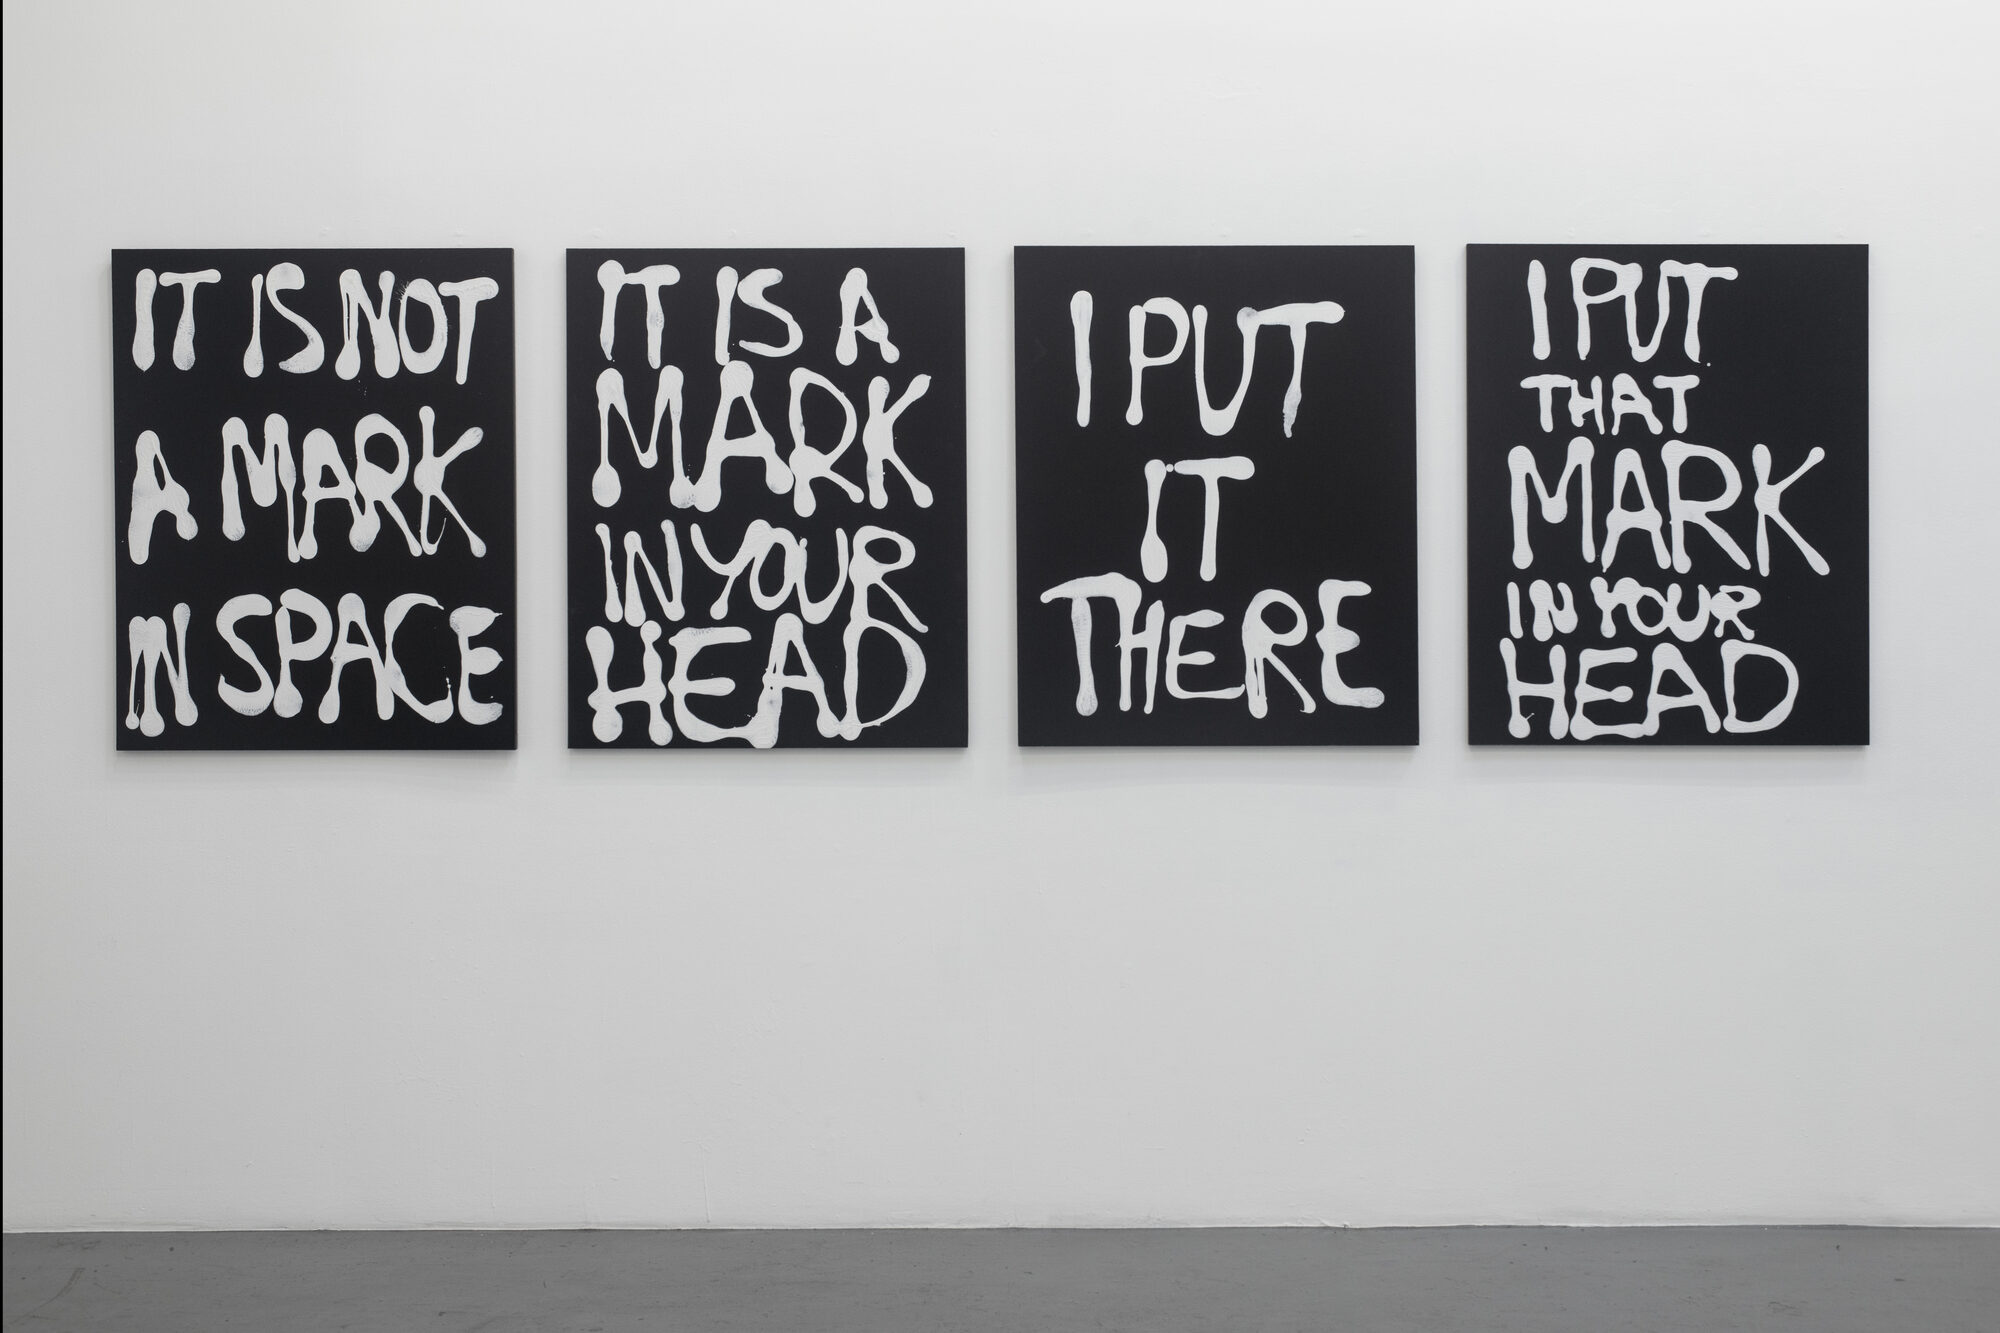
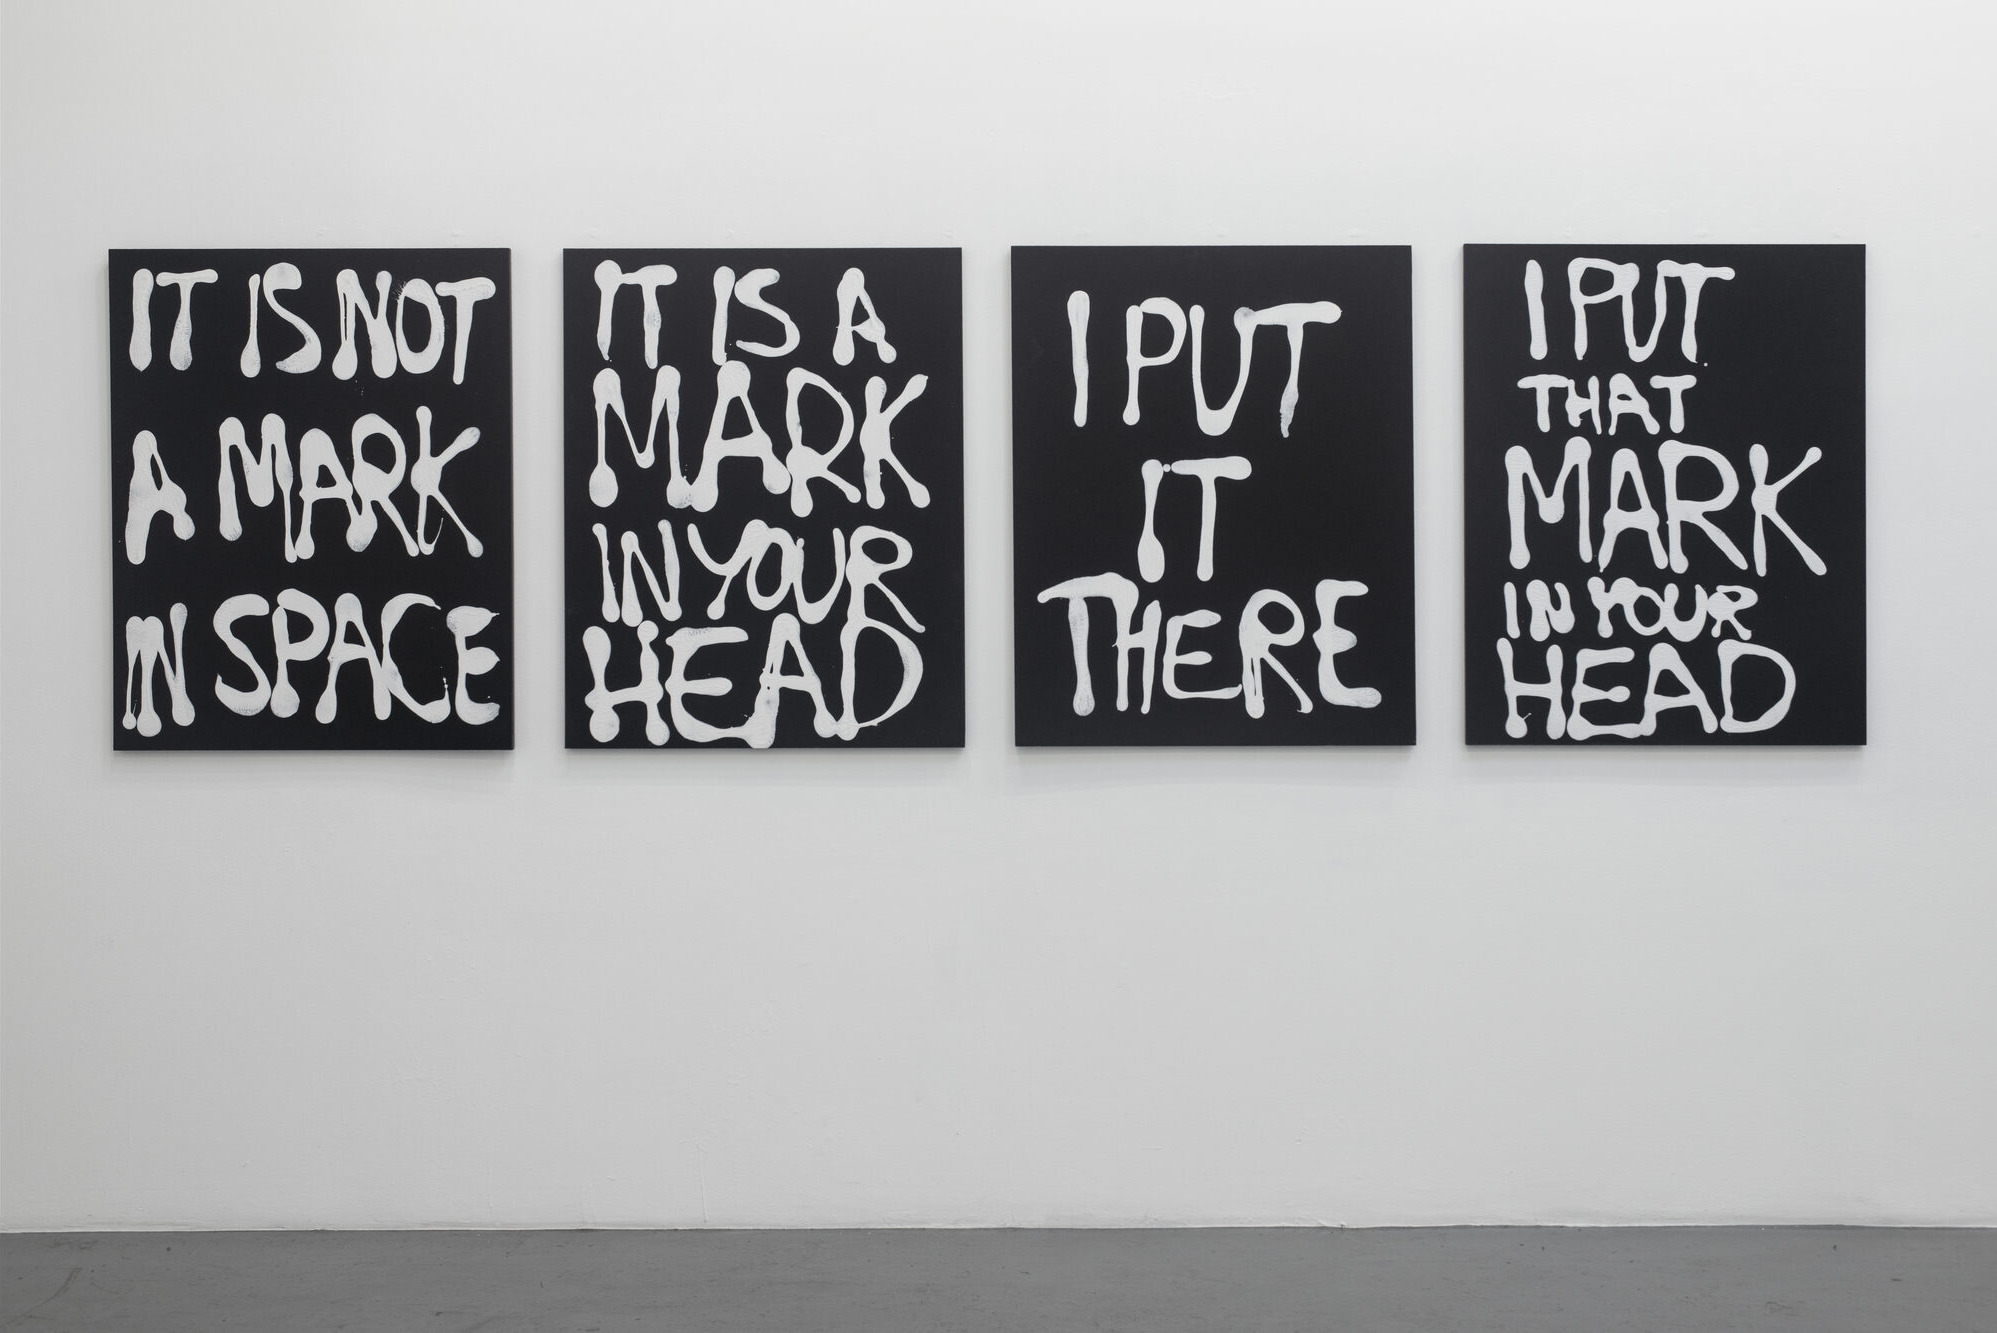
Add files via upload

diff --git a/hurdy-gurdy-man.html b/hurdy-gurdy-man.html
@@ -10,6 +10,9 @@
   <link rel="stylesheet" href="style.css">
   <style>
 
+    /* ── Override title size for this page ── */
+    .exh-title { font-size: clamp(1.4rem, 2.5vw, 2.2rem); }
+
     /* ── Exhibition intro ── */
     .exh-intro {
       padding: 3.5rem 2.5rem 2.5rem;
@@ -24,12 +27,10 @@
     .artist-link {
       color: inherit;
       text-decoration: none;
-      border-bottom: 0.5px solid #1A1A18;
-      transition: color 0.15s, border-color 0.15s;
+      transition: color 0.15s;
     }
     .artist-link:hover {
       color: #6A6660;
-      border-color: #6A6660;
     }
 
     /* ── Gallery sections ── */
@@ -150,7 +151,7 @@
       line-height: 1.6;
     }
 
-    .grid-item:hover img { opacity: 0.82; }
+    .grid-item:hover img { opacity: 1; }
 
     /* ── Lightbox ── */
     .lightbox {
@@ -409,7 +410,8 @@
         <div class="grid-item featured" data-index="2" data-artist="Mitchell Syrop" data-title="I Put That Mark in Your Head" data-year="2004">
           <img src="mitchell-1.jpg" alt="Mitchell Syrop">
           <div class="thumb-caption">
-            <span class="thumb-caption-title">Mitchell Syrop</span>
+            <span class="thumb-caption-title">I Put That Mark in Your Head, 2004</span>
+            <span class="thumb-caption-meta">Acrylic on museum board on Sintra, 40 × 140 inches</span>
           </div>
         </div>
         <div class="diptych">
@@ -417,14 +419,14 @@
             <img src="mitchell-2.jpg" alt="Mitchell Syrop">
             <div class="thumb-caption">
               <span class="thumb-caption-title">Character, 2026</span>
-              <span class="thumb-caption-meta">Acrylic on museum board</span>
+              <span class="thumb-caption-meta">Acrylic on museum board, 60 × 32 inches</span>
             </div>
           </div>
           <div class="grid-item" data-index="4" data-artist="Mitchell Syrop" data-title="Mechanism" data-year="2026">
             <img src="mitchell-3.jpg" alt="Mitchell Syrop">
             <div class="thumb-caption">
               <span class="thumb-caption-title">Mechanism, 2026</span>
-              <span class="thumb-caption-meta">Acrylic on museum board</span>
+              <span class="thumb-caption-meta">Acrylic on museum board, 60 × 32 inches</span>
             </div>
           </div>
         </div>
@@ -433,14 +435,14 @@
             <img src="mitchell-4.jpg" alt="Mitchell Syrop">
             <div class="thumb-caption">
               <span class="thumb-caption-title">Semi Demi, 2026</span>
-              <span class="thumb-caption-meta">Ink and acrylic on paper</span>
+              <span class="thumb-caption-meta">Ink and acrylic on paper, 30 × 22 inches</span>
             </div>
           </div>
           <div class="grid-item" data-index="6" data-artist="Mitchell Syrop" data-title="Spread Bleed" data-year="2026">
             <img src="mitchell-5.jpg" alt="Mitchell Syrop">
             <div class="thumb-caption">
               <span class="thumb-caption-title">Spread Bleed, 2026</span>
-              <span class="thumb-caption-meta">Ink and acrylic on paper</span>
+              <span class="thumb-caption-meta">Ink and acrylic on paper, 30 × 22 inches</span>
             </div>
           </div>
         </div>
@@ -461,35 +463,35 @@
           <img src="dave-2.jpg" alt="Dave Hughes">
           <div class="thumb-caption">
             <span class="thumb-caption-title">Untitled, 2025–26</span>
-            <span class="thumb-caption-meta">Pencil and ink on paper mylar</span>
+            <span class="thumb-caption-meta">Pencil and ink on paper mylar, 24 × 12 × 2 inches</span>
           </div>
         </div>
         <div class="grid-item" data-index="9" data-artist="Dave Hughes" data-title="Untitled" data-year="2025–26">
           <img src="dave-3.jpg" alt="Dave Hughes">
           <div class="thumb-caption">
             <span class="thumb-caption-title">Untitled, 2025–26</span>
-            <span class="thumb-caption-meta">Pencil and ink on paper mylar</span>
+            <span class="thumb-caption-meta">Pencil and ink on paper mylar, 24 × 12 × 2 inches</span>
           </div>
         </div>
         <div class="grid-item" data-index="10" data-artist="Dave Hughes" data-title="Untitled" data-year="2025–26">
           <img src="dave-4.jpg" alt="Dave Hughes">
           <div class="thumb-caption">
             <span class="thumb-caption-title">Untitled, 2025–26</span>
-            <span class="thumb-caption-meta">Pencil and ink on paper mylar</span>
+            <span class="thumb-caption-meta">Pencil and ink on paper mylar, 24 × 12 × 2 inches</span>
           </div>
         </div>
         <div class="grid-item" data-index="11" data-artist="Dave Hughes" data-title="Untitled" data-year="2025–26">
           <img src="dave-5.jpg" alt="Dave Hughes">
           <div class="thumb-caption">
             <span class="thumb-caption-title">Untitled, 2025–26</span>
-            <span class="thumb-caption-meta">Pencil and ink on paper mylar</span>
+            <span class="thumb-caption-meta">Pencil and ink on paper mylar, 24 × 12 × 2 inches</span>
           </div>
         </div>
         <div class="grid-item" data-index="12" data-artist="Dave Hughes" data-title="Untitled" data-year="2025–26">
           <img src="dave-6.jpg" alt="Dave Hughes">
           <div class="thumb-caption">
             <span class="thumb-caption-title">Untitled, 2025–26</span>
-            <span class="thumb-caption-meta">Pencil and ink on paper mylar</span>
+            <span class="thumb-caption-meta">Pencil and ink on paper mylar, 24 × 12 × 2 inches</span>
           </div>
         </div>
         <div class="diptych-uniform">
@@ -499,7 +501,7 @@
             </div>
             <div class="thumb-caption">
               <span class="thumb-caption-title">Untitled, 2026</span>
-              <span class="thumb-caption-meta">Steel, ink, paper</span>
+              <span class="thumb-caption-meta">Steel, ink, paper, 7.5 × 4 × 4 inches</span>
             </div>
           </div>
           <div class="diptych-cell">
@@ -508,7 +510,7 @@
             </div>
             <div class="thumb-caption">
               <span class="thumb-caption-title">Untitled, 2026</span>
-              <span class="thumb-caption-meta">Steel, ink, paper</span>
+              <span class="thumb-caption-meta">Steel, ink, paper, 7.5 × 4 × 4 inches</span>
             </div>
           </div>
         </div>
@@ -529,63 +531,63 @@
           <img src="andrew-2.jpg" alt="Andrew Hahn">
           <div class="thumb-caption">
             <span class="thumb-caption-title">Spirit Photography Drawing 8, 2018</span>
-            <span class="thumb-caption-meta">Pencil on paper</span>
+            <span class="thumb-caption-meta">Pencil on paper, 21 × 15 inches</span>
           </div>
         </div>
         <div class="grid-item" data-index="17" data-artist="Andrew Hahn" data-title="Spirit Photography Drawing 5" data-year="2018">
           <img src="andrew-3.jpg" alt="Andrew Hahn">
           <div class="thumb-caption">
             <span class="thumb-caption-title">Spirit Photography Drawing 5, 2018</span>
-            <span class="thumb-caption-meta">Pencil on paper</span>
+            <span class="thumb-caption-meta">Pencil on paper, 21 × 15 inches</span>
           </div>
         </div>
         <div class="grid-item" data-index="18" data-artist="Andrew Hahn" data-title="Spirit Photography Drawing 11" data-year="2018">
           <img src="andrew-4.jpg" alt="Andrew Hahn">
           <div class="thumb-caption">
             <span class="thumb-caption-title">Spirit Photography Drawing 11, 2018</span>
-            <span class="thumb-caption-meta">Pencil on paper</span>
+            <span class="thumb-caption-meta">Pencil on paper, 21 × 15 inches</span>
           </div>
         </div>
         <div class="grid-item" data-index="19" data-artist="Andrew Hahn" data-title="Spirit Photography Drawing 2" data-year="2018">
           <img src="andrew-5.jpg" alt="Andrew Hahn">
           <div class="thumb-caption">
             <span class="thumb-caption-title">Spirit Photography Drawing 2, 2018</span>
-            <span class="thumb-caption-meta">Pencil on paper</span>
+            <span class="thumb-caption-meta">Pencil on paper, 21 × 15 inches</span>
           </div>
         </div>
         <div class="grid-item" data-index="20" data-artist="Andrew Hahn" data-title="Spirit Photography Drawing 1" data-year="2018">
           <img src="andrew-6.jpg" alt="Andrew Hahn">
           <div class="thumb-caption">
             <span class="thumb-caption-title">Spirit Photography Drawing 1, 2018</span>
-            <span class="thumb-caption-meta">Pencil on paper</span>
+            <span class="thumb-caption-meta">Pencil on paper, 21 × 15 inches</span>
           </div>
         </div>
         <div class="grid-item" data-index="21" data-artist="Andrew Hahn" data-title="Spirit Photography Drawing 4" data-year="2018">
           <img src="andrew-7.jpg" alt="Andrew Hahn">
           <div class="thumb-caption">
             <span class="thumb-caption-title">Spirit Photography Drawing 4, 2018</span>
-            <span class="thumb-caption-meta">Pencil on paper</span>
+            <span class="thumb-caption-meta">Pencil on paper, 21 × 15 inches</span>
           </div>
         </div>
         <div class="grid-item" data-index="22" data-artist="Andrew Hahn" data-title="Spirit Photography Drawing 12" data-year="2018">
           <img src="andrew-8.jpg" alt="Andrew Hahn">
           <div class="thumb-caption">
             <span class="thumb-caption-title">Spirit Photography Drawing 12, 2018</span>
-            <span class="thumb-caption-meta">Pencil on paper</span>
+            <span class="thumb-caption-meta">Pencil on paper, 21 × 15 inches</span>
           </div>
         </div>
         <div class="grid-item" data-index="23" data-artist="Andrew Hahn" data-title="Spirit Photography Drawing 9" data-year="2018">
           <img src="andrew-9.jpg" alt="Andrew Hahn">
           <div class="thumb-caption">
             <span class="thumb-caption-title">Spirit Photography Drawing 9, 2018</span>
-            <span class="thumb-caption-meta">Pencil on paper</span>
+            <span class="thumb-caption-meta">Pencil on paper, 21 × 15 inches</span>
           </div>
         </div>
         <div class="grid-item" data-index="24" data-artist="Andrew Hahn" data-title="Spirit Photography Drawing 3" data-year="2018">
           <img src="andrew-10.jpg" alt="Andrew Hahn">
           <div class="thumb-caption">
             <span class="thumb-caption-title">Spirit Photography Drawing 3, 2018</span>
-            <span class="thumb-caption-meta">Pencil on paper</span>
+            <span class="thumb-caption-meta">Pencil on paper, 21 × 15 inches</span>
           </div>
         </div>
       </div>

diff --git a/style.css b/style.css
@@ -76,9 +76,16 @@ nav a.active { color: #1A1A18; }
 .hero-name {
   font-size: clamp(1.8rem, 4.5vw, 3.5rem);
   font-weight: 300;
-  letter-spacing: -0.02em;
   color: #1A1A18;
   line-height: 1;
+  width: clamp(160px, 35vw, 400px);
+  margin: 0 auto;
+}
+
+.hero-name-inner {
+  display: flex;
+  justify-content: space-between;
+  width: 100%;
 }
 
 /* ── Page header (inner pages) ── */

diff --git a/index.html b/index.html
@@ -29,7 +29,7 @@
 
   <div class="hero">
     <img class="hero-logo" src="logo.png" alt="Double Nickels">
-    <p class="hero-name">Double Nickels</p>
+    <p class="hero-name"><span class="hero-name-inner">Double Nickels</span></p>
   </div>
 
   <main>
@@ -40,7 +40,7 @@
           <img src="installation-1.jpg" alt="The Hurdy Gurdy Man" style="width:100%; height:auto; display:block; transition:opacity 0.2s;">
         </a>
         <h2 class="exh-title" style="align-self:start; padding-top:0.25rem;">
-          <a href="hurdy-gurdy-man.html" style="color:inherit; text-decoration:none; border-bottom:0.5px solid #1A1A18;">The Hurdy Gurdy Man</a>
+          <a href="hurdy-gurdy-man.html" style="color:inherit; text-decoration:none;">The Hurdy Gurdy Man</a>
         </h2>
         <div>
           <p class="exh-artists">